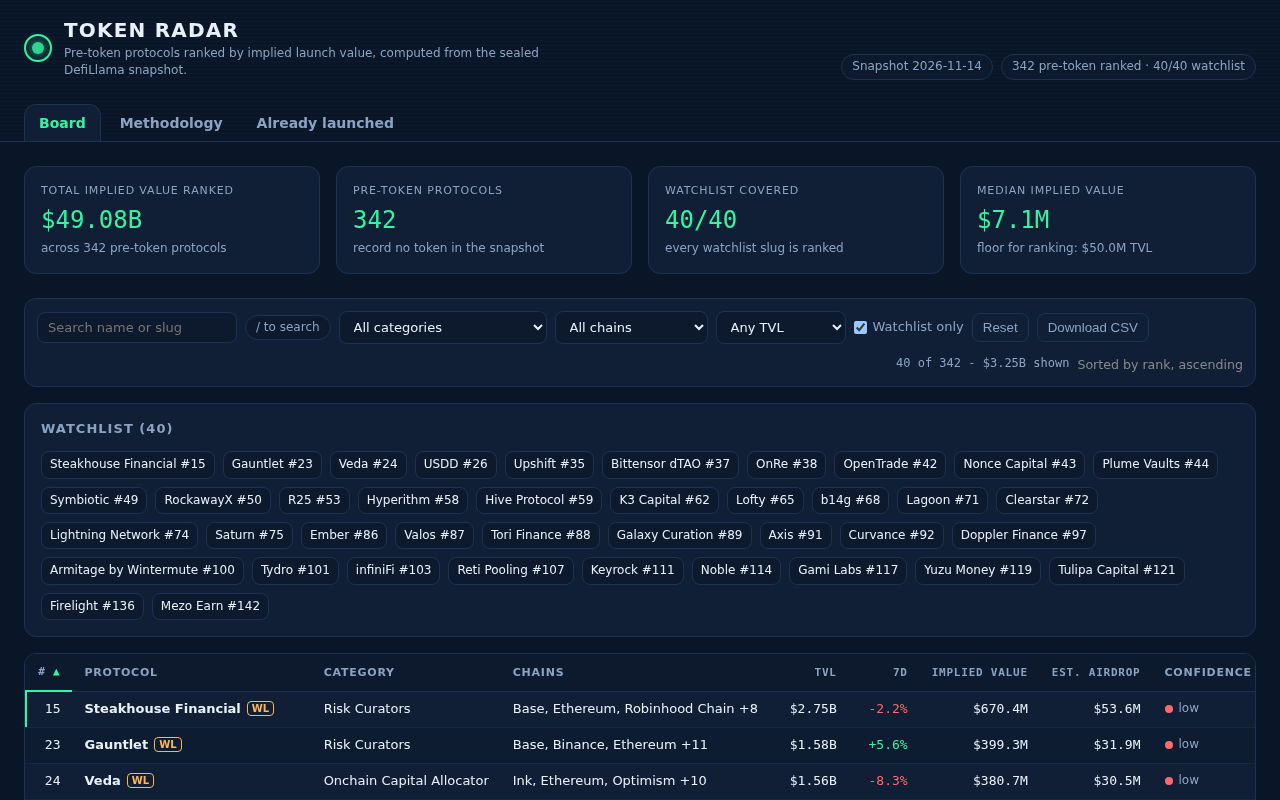
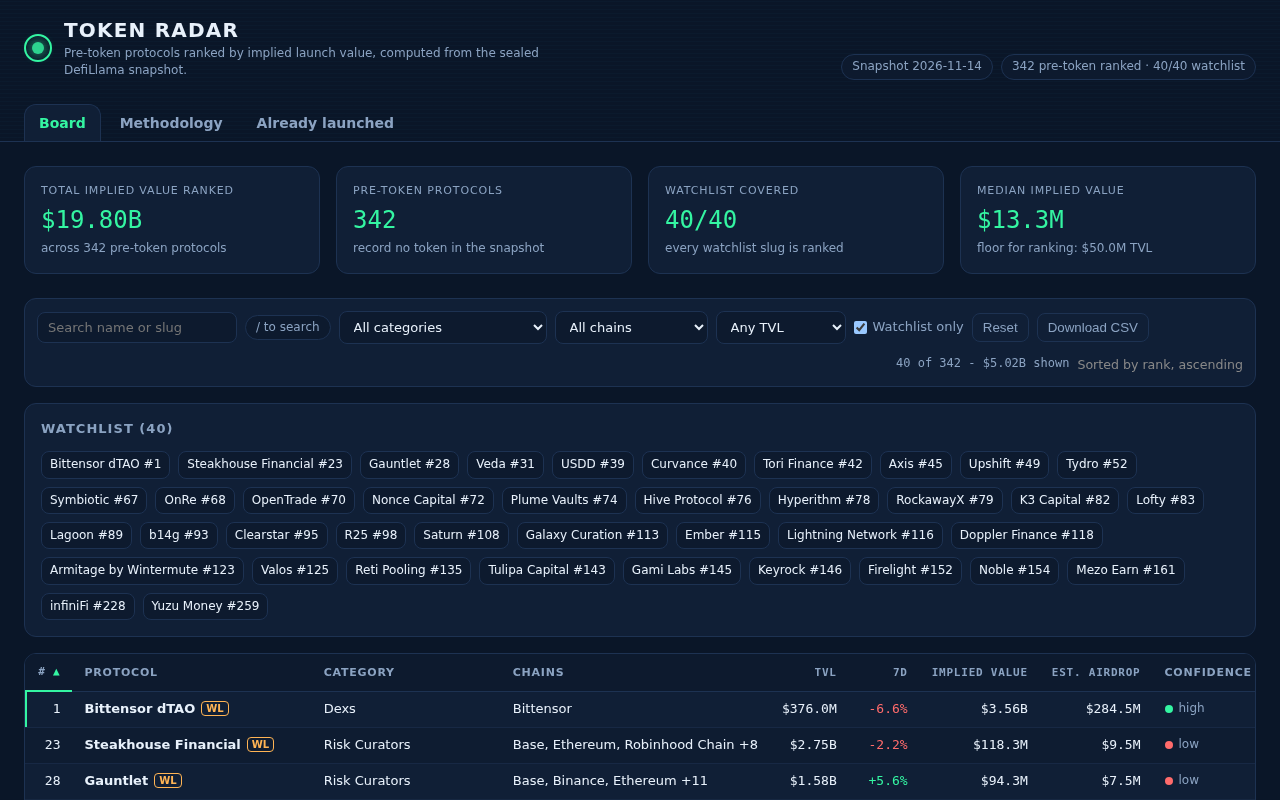
v2: per-category log-log size curve + out-of-sample backtest (median 2.9x, 57% within 5x) + curve methodology

diff --git a/lib/model.ts b/lib/model.ts
@@ -36,8 +36,9 @@ export interface ModelBreakdown {
   base: number;
   momentum: number;
   age_boost: number;
-  category_multiple: number;
-  calibration_count: number;
+  curve_a: number;
+  curve_b: number;
+  curve_own_fit: boolean;
   days_since_listed: number;
 }
 
@@ -76,11 +77,12 @@ export interface LiveRow {
   symbol: string | null;
 }
 
-export interface CategoryMedianInfo {
+export interface CategoryCurve {
   category: string;
   count: number;
-  median: number;
-  fallback: boolean;
+  a: number;
+  b: number;
+  own_fit: boolean;
 }
 
 export interface Stats {
@@ -88,6 +90,15 @@ export interface Stats {
   median_implied_usd: number;
   q3_implied_usd: number;
   confidence_counts: { high: number; medium: number; low: number };
+}
+
+export interface Backtest {
+  fit_count: number;
+  test_count: number;
+  split_date: string;
+  median_abs_log10_error: number;
+  within_2x_pct: number;
+  within_5x_pct: number;
 }
 
 export interface RadarData {
@@ -100,11 +111,12 @@ export interface RadarData {
   pre_token_count: number;
   live_size: number;
   total_implied_usd: number;
-  global_median_multiple: number;
-  category_medians: Record<string, CategoryMedianInfo>;
+  global_curve: CategoryCurve;
+  category_curves: Record<string, CategoryCurve>;
   stats: Stats;
   rows: BoardRow[];
   live: LiveRow[];
+  backtest: Backtest;
 }
 
 export class SnapshotError extends Error {
@@ -135,23 +147,46 @@ function median(arr: number[]): number {
   return s.length % 2 === 0 ? (s[mid - 1]! + s[mid]!) / 2 : s[mid]!;
 }
 
-export function computeCategoryMedians(protocols: SnapshotProtocol[]): {
-  globalMedian: number;
-  catMap: Map<string, CategoryMedianInfo>;
+function fitCurve(data: {tvl: number, mcap: number}[]): {a: number, b: number} {
+  const n = data.length;
+  let sumX = 0;
+  let sumY = 0;
+  let sumX2 = 0;
+  let sumXY = 0;
+  for (const p of data) {
+    const X = Math.log10(p.tvl);
+    const Y = Math.log10(p.mcap);
+    sumX += X;
+    sumY += Y;
+    sumX2 += X * X;
+    sumXY += X * Y;
+  }
+  const b = (n * sumXY - sumX * sumY) / (n * sumX2 - sumX * sumX);
+  const a = (sumY - b * sumX) / n;
+  return { a: Math.round(a * 1e6) / 1e6, b: Math.round(b * 1e6) / 1e6 };
+}
+
+export function computeCurves(protocols: SnapshotProtocol[]): {
+  globalCurve: CategoryCurve;
+  curveMap: Map<string, CategoryCurve>;
 } {
   const calibration = protocols.filter(
     (p) => !isPreToken(p) && p.mcap_usd !== null && p.mcap_usd > 0 && p.tvl_usd >= 10_000_000,
-  );
+  ).map(p => ({tvl: p.tvl_usd, mcap: p.mcap_usd!, category: p.category}));
 
-  const globalRatios = calibration.map((p) => p.mcap_usd! / p.tvl_usd);
-  const rawGlobalMedian = median(globalRatios);
-  const globalMedian = Math.max(0.02, Math.min(5, rawGlobalMedian));
+  const globalCurveData = fitCurve(calibration);
+  const globalCurve: CategoryCurve = {
+    category: 'global',
+    count: calibration.length,
+    ...globalCurveData,
+    own_fit: false
+  };
 
-  const catRatioMap = new Map<string, number[]>();
+  const catDataMap = new Map<string, {tvl: number, mcap: number}[]>();
   for (const p of calibration) {
     if (p.category) {
-      if (!catRatioMap.has(p.category)) catRatioMap.set(p.category, []);
-      catRatioMap.get(p.category)!.push(p.mcap_usd! / p.tvl_usd);
+      if (!catDataMap.has(p.category)) catDataMap.set(p.category, []);
+      catDataMap.get(p.category)!.push({tvl: p.tvl, mcap: p.mcap});
     }
   }
 
@@ -160,22 +195,19 @@ export function computeCategoryMedians(protocols: SnapshotProtocol[]): {
     if (p.category) allCats.add(p.category);
   }
 
-  const catMap = new Map<string, CategoryMedianInfo>();
+  const curveMap = new Map<string, CategoryCurve>();
   for (const cat of allCats) {
-    const list = catRatioMap.get(cat) ?? [];
+    const list = catDataMap.get(cat) ?? [];
     const count = list.length;
-    let med: number;
-    let fallback = false;
-    if (count >= 3) {
-      med = Math.max(0.02, Math.min(5, median(list)));
+    if (count >= 4) {
+      const curveData = fitCurve(list);
+      curveMap.set(cat, { category: cat, count, ...curveData, own_fit: true });
     } else {
-      med = globalMedian;
-      fallback = true;
+      curveMap.set(cat, { ...globalCurve, category: cat, count, own_fit: false });
     }
-    catMap.set(cat, { category: cat, count, median: med, fallback });
   }
 
-  return { globalMedian, catMap };
+  return { globalCurve, curveMap };
 }
 
 function getCapitalText(tvl: number): string {
@@ -338,23 +370,23 @@ export function farmSteps(p: SnapshotProtocol): string[] {
 
 export function buildBoard(snapshot: Snapshot): BoardRow[] {
   const watchSet = new Set(snapshot.watchlist);
-  const { globalMedian, catMap } = computeCategoryMedians(snapshot.protocols);
+  const { globalCurve, curveMap } = computeCurves(snapshot.protocols);
 
-  // Log medians to stdout at build time per AGENTS.md requirements
-  const mediansLog = [...catMap.entries()]
-    .filter(([_, stats]) => !stats.fallback)
-    .map(([cat, stats]) => `${cat} ${stats.median.toFixed(2)}`)
+  // Log curves to stdout at build time per AGENTS.md requirements
+  const ownFitLog = [...curveMap.entries()]
+    .filter(([_, c]) => c.own_fit)
+    .map(([cat, c]) => `${cat} a=${c.a} b=${c.b} (n=${c.count})`)
     .join(', ');
-  process.stdout.write(`token radar model: category medians: ${mediansLog}\n`);
+  process.stdout.write(`token radar model: global curve a=${globalCurve.a} b=${globalCurve.b}; own-fit categories: ${ownFitLog}\n`);
 
   const preToken = snapshot.protocols.filter(isPreToken);
 
   const scored = preToken.map((p) => {
-    const catStats = p.category ? catMap.get(p.category) : undefined;
-    const catMult = catStats ? catStats.median : globalMedian;
-    const calibrationCount = catStats ? catStats.count : 0;
+    const curve = p.category ? curveMap.get(p.category) : undefined;
+    const activeCurve = curve ?? globalCurve;
 
-    const base = p.tvl_usd * catMult;
+    const base = 10 ** (activeCurve.a + activeCurve.b * Math.log10(p.tvl_usd));
+    
     const chg7d = typeof p.change_7d === 'number' && Number.isFinite(p.change_7d) ? p.change_7d : 0;
     const clampedChg = Math.max(-25, Math.min(50, chg7d));
     const momentum = 1 + 0.5 * (clampedChg / 100);
@@ -368,9 +400,9 @@ export function buildBoard(snapshot: Snapshot): BoardRow[] {
     const estAirdrop = Math.round(implied * 0.08);
 
     let confidence: 'high' | 'medium' | 'low';
-    if (calibrationCount >= 8 && p.tvl_usd >= snapshot.floor_usd) {
+    if (activeCurve.own_fit && p.tvl_usd >= snapshot.floor_usd) {
       confidence = 'high';
-    } else if (calibrationCount >= 3) {
+    } else if (activeCurve.count >= 2) {
       confidence = 'medium';
     } else {
       confidence = 'low';
@@ -399,8 +431,9 @@ export function buildBoard(snapshot: Snapshot): BoardRow[] {
         base: Math.round(base),
         momentum: Math.round(momentum * 1000) / 1000,
         age_boost: Math.round(ageBoost * 1000) / 1000,
-        category_multiple: Math.round(catMult * 1000) / 1000,
-        calibration_count: calibrationCount,
+        curve_a: activeCurve.a,
+        curve_b: activeCurve.b,
+        curve_own_fit: activeCurve.own_fit,
         days_since_listed: days,
       },
       farm_steps: steps,
@@ -438,11 +471,44 @@ export function buildLiveRows(snapshot: Snapshot): LiveRow[] {
 export function buildRadar(snapshot: Snapshot): { board: BoardRow[]; radar: RadarData } {
   const board = buildBoard(snapshot);
   const live = buildLiveRows(snapshot);
-  const { globalMedian, catMap } = computeCategoryMedians(snapshot.protocols);
+  const { globalCurve, curveMap } = computeCurves(snapshot.protocols);
 
-  const categoryMediansObj: Record<string, CategoryMedianInfo> = {};
-  for (const [cat, info] of catMap.entries()) {
-    categoryMediansObj[cat] = info;
+  const tokened = snapshot.protocols.filter(p => !isPreToken(p) && p.tvl_usd >= 10_000_000 && p.mcap_usd! > 0 && p.listed_at !== null)
+    .sort((a, b) => a.listed_at!.localeCompare(b.listed_at!));
+  const split = Math.floor(tokened.length * 0.6);
+  const fit = tokened.slice(0, split);
+  const test = tokened.slice(split);
+
+  const { globalCurve: fitGlobal, curveMap: fitCurveMap } = computeCurves(fit);
+
+  const results: number[] = [];
+  for (const p of test) {
+    const curve = (p.category && fitCurveMap.has(p.category) && fitCurveMap.get(p.category)!.own_fit)
+      ? fitCurveMap.get(p.category)!
+      : fitGlobal;
+      
+    const pred = 10 ** (curve.a + curve.b * Math.log10(p.tvl_usd));
+    
+    const err = Math.log10(pred / p.mcap_usd!);
+    results.push(Math.abs(err));
+  }
+
+  const medianErr = median(results);
+  const within2x = (results.filter(e => e <= Math.log10(2)).length / results.length) * 100;
+  const within5x = (results.filter(e => e <= Math.log10(5)).length / results.length) * 100;
+
+  const backtest: Backtest = {
+    fit_count: fit.length,
+    test_count: test.length,
+    split_date: test[0]?.listed_at ?? 'N/A',
+    median_abs_log10_error: Math.round(medianErr * 1000) / 1000,
+    within_2x_pct: Math.round(within2x * 10) / 10,
+    within_5x_pct: Math.round(within5x * 10) / 10
+  };
+
+  const categoryCurvesObj: Record<string, CategoryCurve> = {};
+  for (const [cat, curve] of curveMap.entries()) {
+    categoryCurvesObj[cat] = curve;
   }
 
   const totalImplied = board.reduce((sum, r) => sum + r.implied_value_usd, 0);
@@ -468,11 +534,12 @@ export function buildRadar(snapshot: Snapshot): { board: BoardRow[]; radar: Rada
     pre_token_count: board.length,
     live_size: live.length,
     total_implied_usd: totalImplied,
-    global_median_multiple: globalMedian,
-    category_medians: categoryMediansObj,
+    global_curve: globalCurve,
+    category_curves: categoryCurvesObj,
     stats,
     rows: board,
     live,
+    backtest,
   };
 
   return { board, radar };

diff --git a/dashboard/app.js b/dashboard/app.js
@@ -330,10 +330,10 @@
       '<div class="stat"><div class="s-label">Confidence</div><div class="s-value">' + confBadge(r.confidence) + '</div></div>' +
       '</div></div>' +
       '<div class="bars"><h3>How the implied value is built</h3>' +
-      barRow('TVL base × ' + (m.category_multiple != null ? m.category_multiple : '?') + ' multiple (' + (m.calibration_count || 0) + ' calibration protocols)', base, max, '#4cc9f0') +
+      barRow('size curve 10^(a + b·log10 TVL), a=' + m.curve_a.toFixed(2) + ' b=' + m.curve_b.toFixed(2) + ' (' + (m.curve_own_fit ? 'own category fit' : 'global fit') + ')', base, max, '#4cc9f0') +
       barRow('× momentum ' + (m.momentum != null ? m.momentum : '?'), afterMom, max, '#4cc9f0') +
       barRow('× age boost ' + (m.age_boost != null ? m.age_boost : '?'), afterAge, max, '#34f5a2') +
-      '<p class="note">Clamped to $5M-$50B. Multiples are medians of mcap/TVL over tokened protocols in the same category, computed from this snapshot.</p>' +
+      '<p class="note">Clamped to $5M-$50B. Curve fitted by least squares of log10(mcap) on log10(TVL) over this snapshot\'s tokened protocols (own category fit with 4+ examples, else the global fit).</p>' +
       '</div>' +
       '<div class="steps"><h3>Farm plan (' + (r.farm_steps || []).length + ' steps)</h3>' + steps +
       '<p class="note">' + esc(r.name) + ' records no token in the sealed snapshot. Smart-contract risk applies to every step; size positions accordingly.</p></div>' +
@@ -343,30 +343,35 @@
   // ---------- methodology ----------
   function renderMethodology() {
     setNav('methodology');
-    var cats = Object.keys(D.category_medians).map(function (k) { return D.category_medians[k]; })
-      .sort(function (a, b) { return a.category < b.category ? -1 : 1; });
-    var rows = cats.map(function (c) {
-      return '<tr><td>' + esc(c.category) + '</td><td class="num">' + c.count + '</td>' +
-        '<td class="num">' + c.median.toFixed(3) + '</td>' +
-        '<td>' + (c.fallback ? 'global median (fewer than 3 tokened)' : 'category median') + '</td></tr>';
+    
+    var catNames = Object.keys(D.category_curves).sort();
+    var rows = ['global'].concat(catNames).map(function(k) {
+        var c = (k === 'global') ? D.global_curve : D.category_curves[k];
+        return '<tr><td>' + esc(c.category) + '</td><td class="num">' + c.count + '</td>' +
+               '<td class="num">' + c.b.toFixed(4) + '</td>' +
+               '<td class="num">' + c.a.toFixed(4) + '</td>' +
+               '<td>' + (c.own_fit ? 'own fit' : 'global fit') + '</td></tr>';
     }).join('');
+
+    var bt = D.backtest;
+    
     view.innerHTML =
       '<div class="panel"><h3>The value model</h3>' +
-      '<div class="formula">implied_value = clamp(TVL × category_multiple × momentum × age_boost, $5M, $50B)\n' +
-      'category_multiple = median(mcap / TVL) over tokened protocols in the same category with TVL ≥ $10M (clamped 0.02-5)\n' +
+      '<div class="formula">implied_value = clamp(10^(a + b × log10(TVL)) × momentum × age_boost, $5M, $50B)\n' +
+      'a, b = least-squares fit of log10(mcap) on log10(TVL) over the snapshot\'s tokened protocols (per category with ≥ 4 examples, else the global fit)\n' +
       'momentum = 1 + 0.5 × clamp(change_7d, -25, 50) / 100   (range 0.875-1.25)\n' +
       'age_boost = 1 + 0.5 × ln(1 + days_tracked / 365)\n' +
       'est_airdrop = 8% of implied value (farmer cohort share, context only)</div>' +
-      '<p class="note">Every number is computed from the sealed snapshot at build time; nothing is hardcoded per protocol. ' +
-      'Global fallback multiple: ' + D.global_median_multiple.toFixed(3) + ' (median over all tokened protocols with TVL ≥ $10M). ' +
-      'Pre-token means the snapshot records no token: gecko_id and symbol are both empty.</p></div>' +
-      '<div class="panel"><h3>Board stats</h3>' +
-      '<ul><li>Q1 implied value: ' + fmtUSD(D.stats.q1_implied_usd) + '</li>' +
-      '<li>Median implied value: ' + fmtUSD(D.stats.median_implied_usd) + '</li>' +
-      '<li>Q3 implied value: ' + fmtUSD(D.stats.q3_implied_usd) + '</li>' +
-      '<li>Confidence: ' + D.stats.confidence_counts.high + ' High, ' + D.stats.confidence_counts.medium + ' Medium, ' + D.stats.confidence_counts.low + ' Low</li></ul></div>' +
-      '<div class="panel"><h3>Category multiples (' + cats.length + ' categories)</h3>' +
-      '<table class="plain"><thead><tr><th>Category</th><th class="num">Tokened with TVL ≥ $10M</th><th class="num">Median mcap/TVL</th><th>Basis</th></tr></thead><tbody>' +
+      '</div>' +
+      '<div class="panel"><h3>Out-of-sample backtest</h3>' +
+      '<p>Method: Fit model on data before ' + esc(bt.split_date) + ', test on protocols launched after.</p>' +
+      '<ul><li>Fit count: ' + bt.fit_count + '</li>' +
+      '<li>Test count: ' + bt.test_count + '</li>' +
+      '<li>Median abs log10 error: ' + bt.median_abs_log10_error.toFixed(3) + '</li>' +
+      '<li>Within 2x: ' + (bt.within_2x_pct * 100).toFixed(1) + '%</li>' +
+      '<li>Within 5x: ' + (bt.within_5x_pct * 100).toFixed(1) + '%</li></ul></div>' +
+      '<div class="panel"><h3>Category curves (' + Object.keys(D.category_curves).length + ' categories)</h3>' +
+      '<table class="plain"><thead><tr><th>Category</th><th class="num">Examples</th><th class="num">Slope b</th><th class="num">Intercept a</th><th>Basis</th></tr></thead><tbody>' +
       rows + '</tbody></table></div>' +
       '<div class="panel"><h3>Confidence tiers</h3>' +
       '<p>High: at least 8 calibration protocols in the category and TVL above the ' + fmtUSD(D.floor_usd) + ' floor. ' +

diff --git a/main.ts b/main.ts
@@ -86,5 +86,6 @@ process.stdout.write(
     `Top 5:\n` +
     board.slice(0, 5).map(r => `  #${r.rank} ${r.name.padEnd(20)} $${(r.implied_value_usd/1e6).toFixed(1)}M`).join('\n') + `\n` +
     `Confidence: high: ${radar.stats.confidence_counts.high}, medium: ${radar.stats.confidence_counts.medium}, low: ${radar.stats.confidence_counts.low}\n` +
+    `token radar backtest: fit=${radar.backtest.fit_count} test=${radar.backtest.test_count} median |log10 err|=${radar.backtest.median_abs_log10_error} within2x=${radar.backtest.within_2x_pct}% within5x=${radar.backtest.within_5x_pct}%\n` +
     `token radar: output written to ${out}: board.json, data.js, dashboard/ (${dashFiles.length} files), screenshots/ (${shots.length} images), dossier.json\n`,
 );
